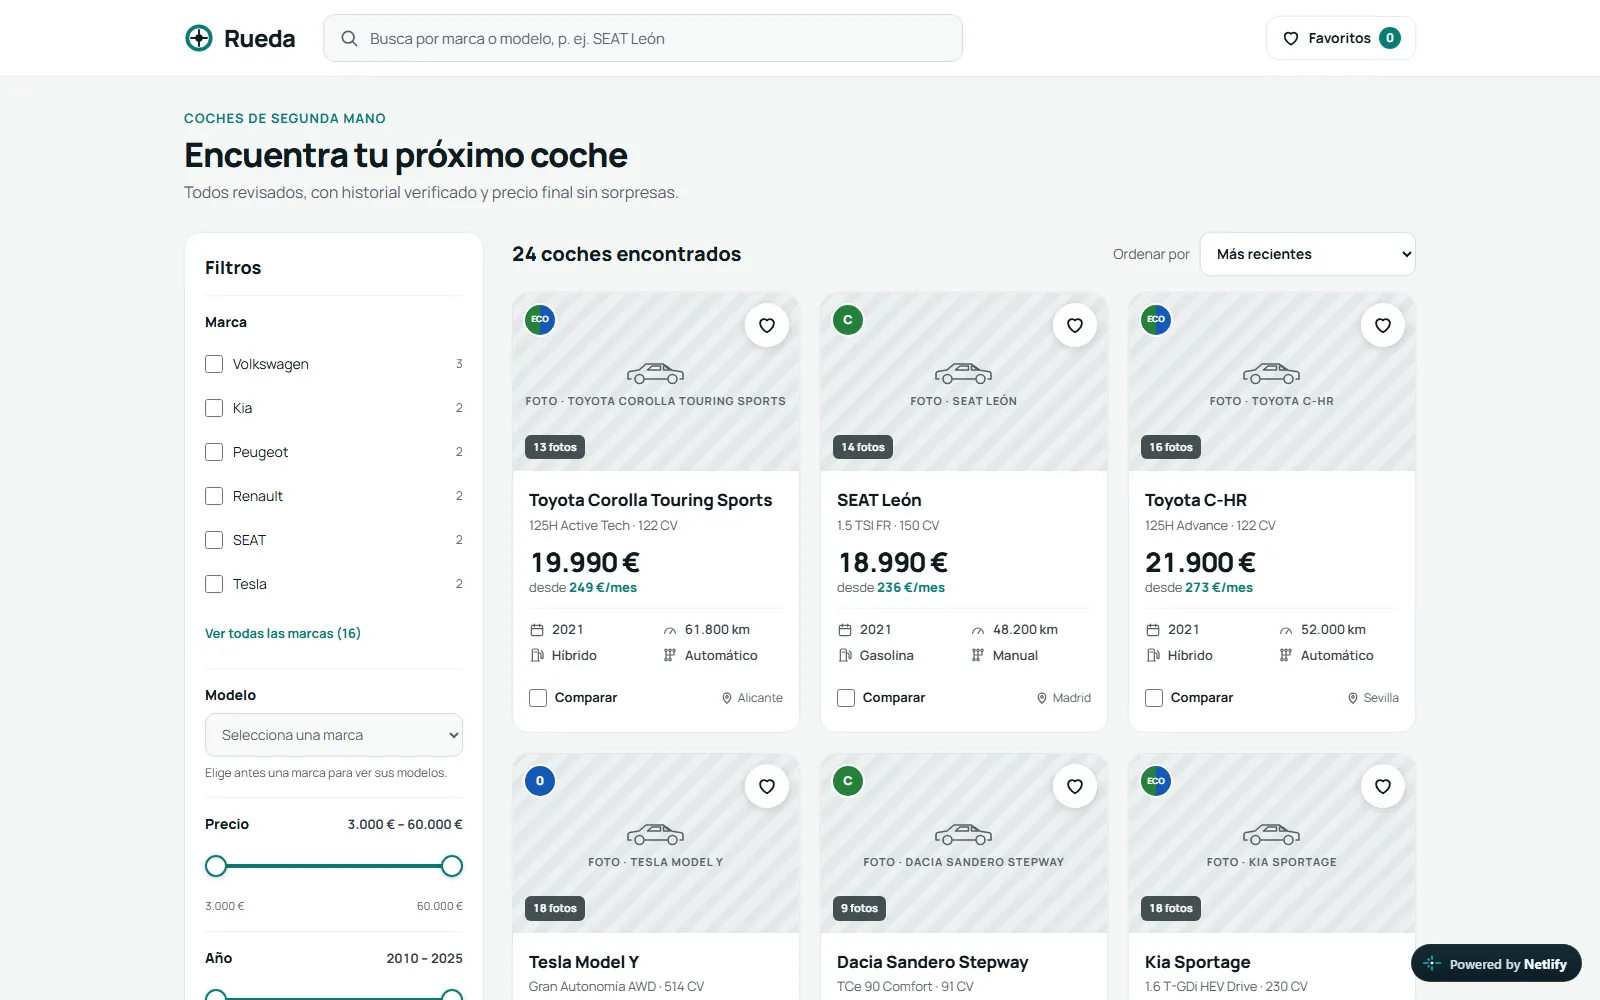
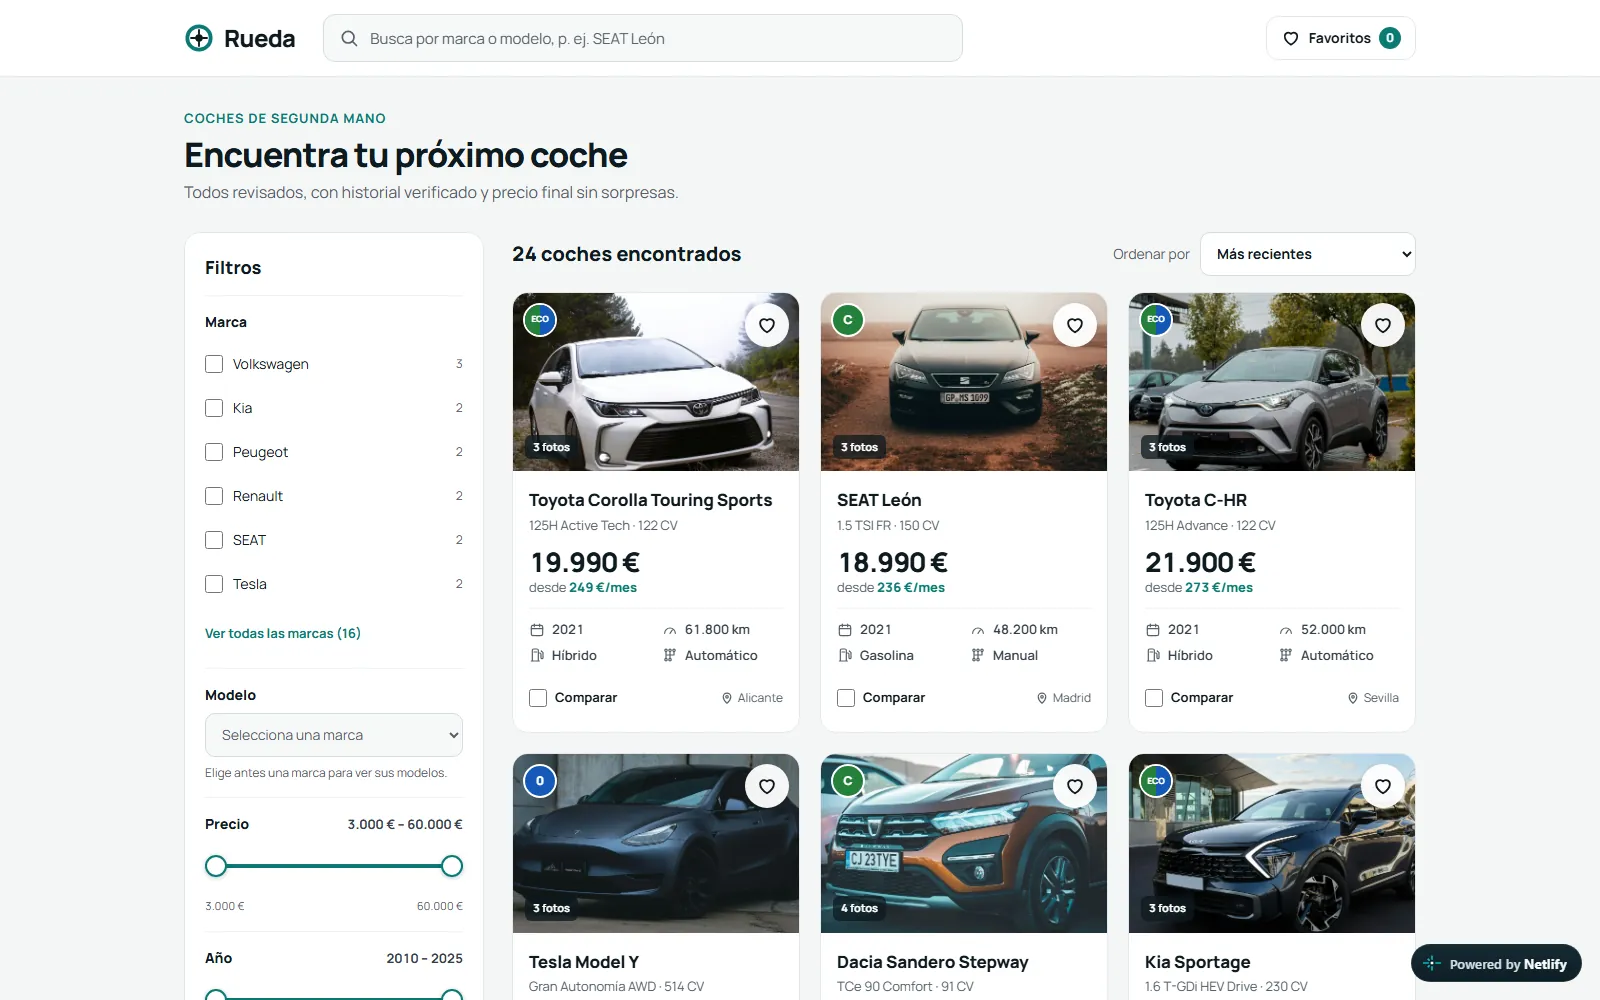
Nueva captura de Rueda y enlace a su nuevo dominio
La web ahora muestra fotos reales de los coches; se actualiza también el texto alternativo.

Changed region(s): [[0.3125, 0.279, 0.9062, 0.496], [0.3125, 0.744, 0.9062, 0.93]]

diff --git a/src/data/projects.ts b/src/data/projects.ts
@@ -20,7 +20,7 @@ export const PROJECTS: Project[] = [
     featured: true,
     links: LINKS.projects.rueda,
     screenshot: {
-      alt: 'Buscador de coches Rueda: listado de coches de segunda mano con filtros por marca, modelo y precio, y tarjetas con precio, cuota mensual y kilómetros.',
+      alt: 'Buscador de coches Rueda: listado de coches de segunda mano con filtros por marca, modelo y precio, y tarjetas con foto, precio, cuota mensual y kilómetros de cada coche.',
       placeholder: 'Captura · Buscador de coches · 1600×1000',
     },
   },

diff --git a/src/data/links.ts b/src/data/links.ts
@@ -12,7 +12,7 @@ export const LINKS = {
   cv: '/CV_Eduardo_Cebrian_Desarrollador_Web.pdf',
   projects: {
     rueda: {
-      web: 'https://rueda-proyecto.netlify.app/',
+      web: 'https://rueda-eduardo-cebrian.netlify.app/',
       code: 'https://github.com/tioeduardo93/Rueda-Proyecto-de-portafolio',
     },
     guacamaya: {
